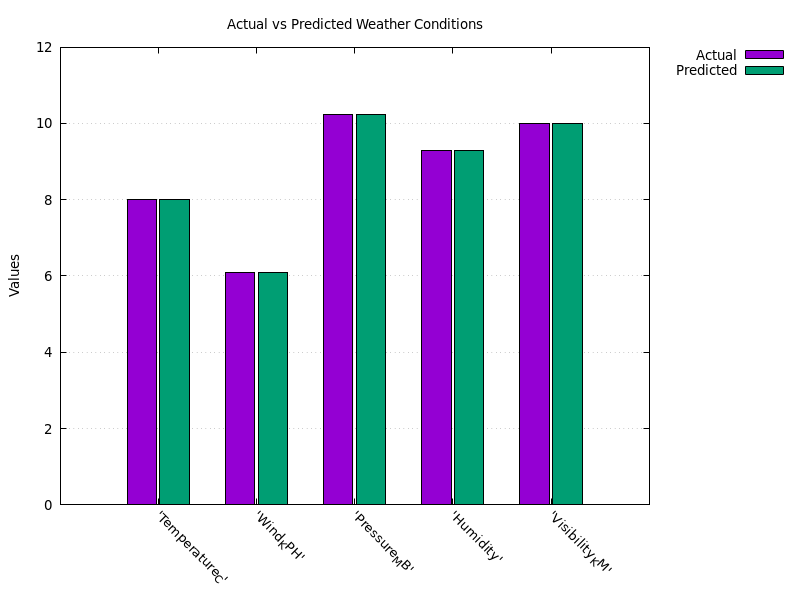
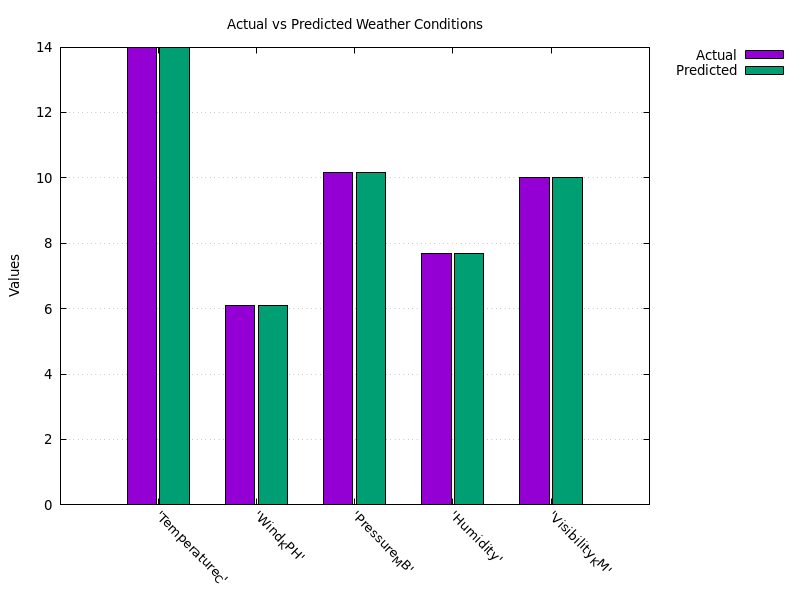
Refactor and Clarified comments

diff --git a/latex/weather_report.tex b/latex/weather_report.tex
@@ -26,7 +26,7 @@
 
     \thispagestyle{fancy}
     \section*{Weather at a Glance }
-At a cool 8.0°C, the air whispers of change, brisk and refreshing. It hints at the need for a warm layer, inviting a sense of calm and a breath of fresh air. This gentle reminder of the season's shift encourages one to savor the crispness that envelops the surroundings. Above, the skies of Freiburg don a cloak of overcast, setting the stage for the day's mood. A wind, carrying whispers at 6.1 kph from the ESE, shapes the air's embrace. The atmosphere, pressing down with a pressure of 1022.0 mb, remains unseen but deeply felt, a silent guardian of the day. Humidity at 93% weaves a tale of invisible waters binding earth and sky, while clouds, those fleeting masterpieces, adorn 100% of the heavens. This dance of light and shadow plays over the landscape, with the mercury hinting at 8.0°C yet the sensation on the skin echoes 7.0°C. Visibility stretches to 10.0 km, promising clear views that invite the soul to wander. Together, these elements weave a tapestry of weather in Freiburg, not merely a story of data but an experience woven from the sun's warmth, the wind's caress, and the clouds' silent passage. Here, in the heart of Freiburg, the day unfolds with a promise of moments lived under an ever-changing sky, a narrative rich with the essence of life itself.
+At a cool 8.0°C, the air whispers of change, brisk and refreshing. It hints at the need for a warm layer, inviting a sense of calm and a breath of fresh air. This gentle reminder of the season's shift encourages one to savor the crispness that envelops the surroundings. Above, the skies of Freiburg don a cloak of overcast, setting the stage for the day's mood. A wind, carrying whispers at 6.1 kph from the ESE, shapes the air's embrace. The atmosphere, pressing down with a pressure of 1022.0 mb, remains unseen but deeply felt, a silent guardian of the day. Humidity at 93% weaves a tale of invisible waters binding earth and sky, while clouds, those fleeting masterpieces, adorn 100% of the heavens. This dance of light and shadow plays over the landscape, with the mercury hinting at 8.0°C yet the sensation on the skin echoes 7.1°C. Visibility stretches to 10.0 km, promising clear views that invite the soul to wander. Together, these elements weave a tapestry of weather in Freiburg, not merely a story of data but an experience woven from the sun's warmth, the wind's caress, and the clouds' silent passage. Here, in the heart of Freiburg, the day unfolds with a promise of moments lived under an ever-changing sky, a narrative rich with the essence of life itself.
 \paragraph{}This graph offers a detailed overview of the temperature and precipitation in Freiburg, providing a clear visualization of the climate trends. By comparing the temperature (in degrees Celsius) and precipitation levels, the graph enables an intuitive understanding of the weather patterns, highlighting seasonal changes and potential anomalies.
 \begin{figure}[h]
 \centering
@@ -41,7 +41,7 @@ At a cool 8.0°C, the air whispers of change, brisk and refreshing. It hints at 
 \caption{Detailed Wind Speed, Gust, and Direction Variations over Time in Freiburg}
 \end{figure}
 
-\paragraph{}Figure 3 presents a compelling comparison between actual and predicted weather metrics at Freiburg, including temperature, wind speed, atmospheric pressure, humidity, and visibility. Observed conditions—temperature at 8.0°C, wind speed at 6.1 kph, wind direction as 'ESE', pressure at 1022.0 mb, humidity at 93\%, cloud coverage at 100\%, feels like temperature at 7.0°C, and visibility at 10.0 km—are meticulously juxtaposed against their predicted counterparts. This analysis not only underscores the accuracy of weather forecasts but also reflects the intricate weather phenomena characterizing Freiburg.
+\paragraph{}Figure 3 presents a compelling comparison between actual and predicted weather metrics at Freiburg, including temperature, wind speed, atmospheric pressure, humidity, and visibility. Observed conditions—temperature at 8.0°C, wind speed at 6.1 kph, wind direction as 'ESE', pressure at 1022.0 mb, humidity at 93\%, cloud coverage at 100\%, feels like temperature at 7.1°C, and visibility at 10.0 km—are meticulously juxtaposed against their predicted counterparts. This analysis not only underscores the accuracy of weather forecasts but also reflects the intricate weather phenomena characterizing Freiburg.
 \begin{figure}[h]
 \centering
 \includegraphics[width=0.8\textwidth]{data/graph/weather_comparison_graph.png}

diff --git a/api/forecast.py b/api/forecast.py
@@ -1,12 +1,10 @@
 import csv
 import os
 from datetime import datetime
-
 import requests
 
-
 def fetch_weather_data(location="Freiburg"):
-    api_key = "f201b82ab7bf4b77974102847243101"
+    api_key = "874edd8d83674f1db8101409241502"
     api_url = f"https://api.weatherapi.com/v1/forecast.json?q={location}&days=7&key={api_key}"
 
     try:
@@ -17,23 +15,21 @@ def fetch_weather_data(location="Freiburg"):
         print(f"Error fetching weather data: {e}")
         return None
 
-
 def save_weather_data_to_csv(weather_data, file_path):
-    # Check if the data is already up-to-date
+    # Check if the file exists and read the first data row to check the date
     if os.path.exists(file_path):
         with open(file_path, mode='r') as file:
-            reader = csv.reader(file)
-            header = next(reader, None)  # Skip header
-            first_row = next(reader, None)
+            reader = csv.DictReader(file)
+            first_row = next(reader, None)  # Get the first data row
 
             if first_row:
-                first_row_date_str = first_row[0].split(" ")[0]
+                first_row_date_str = first_row["Time"].split(" ")[0]  # Extract date part
                 first_row_date = datetime.strptime(first_row_date_str, "%Y-%m-%d").date()
                 today_date = datetime.now().date()
 
                 if first_row_date == today_date:
                     print("Weather data is already up to date for today.")
-                    return
+                    return  # Exit the function if the data is already up to date
 
     # Ensure the directory exists
     os.makedirs(os.path.dirname(file_path), exist_ok=True)

diff --git a/api/weather.py b/api/weather.py
@@ -6,7 +6,7 @@ import requests
 
 
 def get_weather(location="Freiburg"):
-    api_key = "f201b82ab7bf4b77974102847243101"
+    api_key = "874edd8d83674f1db8101409241502"
     api_url = f"https://api.weatherapi.com/v1/current.json?q={location}&key={api_key}"
     try:
         response = requests.get(api_url)
